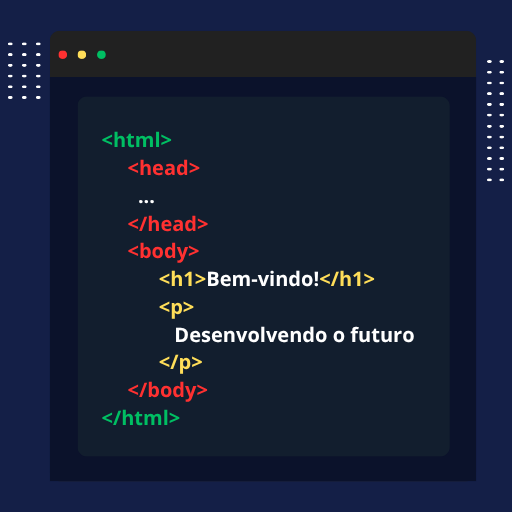
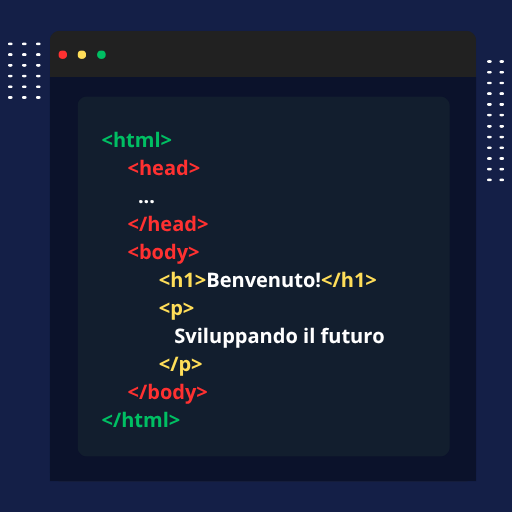
assets: replace hero image with Italian version

Changed region(s): [[0.1875, 0.5938, 0.8125, 0.8438], [0.25, 0.4688, 0.75, 0.5625]]

diff --git a/project/index.html b/project/index.html
@@ -723,7 +723,11 @@
                 <a class="footer__nav-link" href="#projects">Progetti</a>
               </li>
               <li class="footer__nav-item">
-                <a class="footer__nav-link" href="#github">GitHub</a>
+                <a
+                  class="footer__nav-link"
+                  href="https://github.com/NicolauAlfredo"
+                  >GitHub</a
+                >
               </li>
             </ul>
           </nav>
